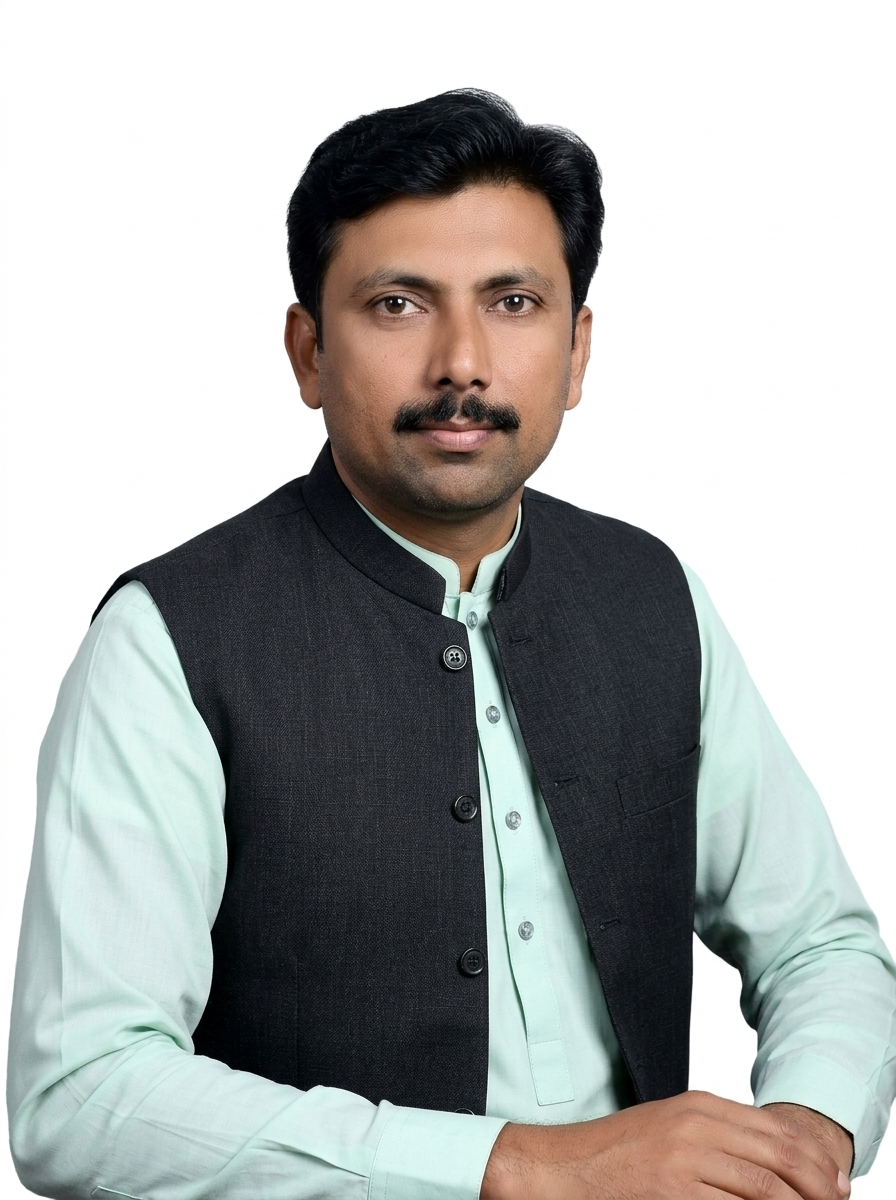
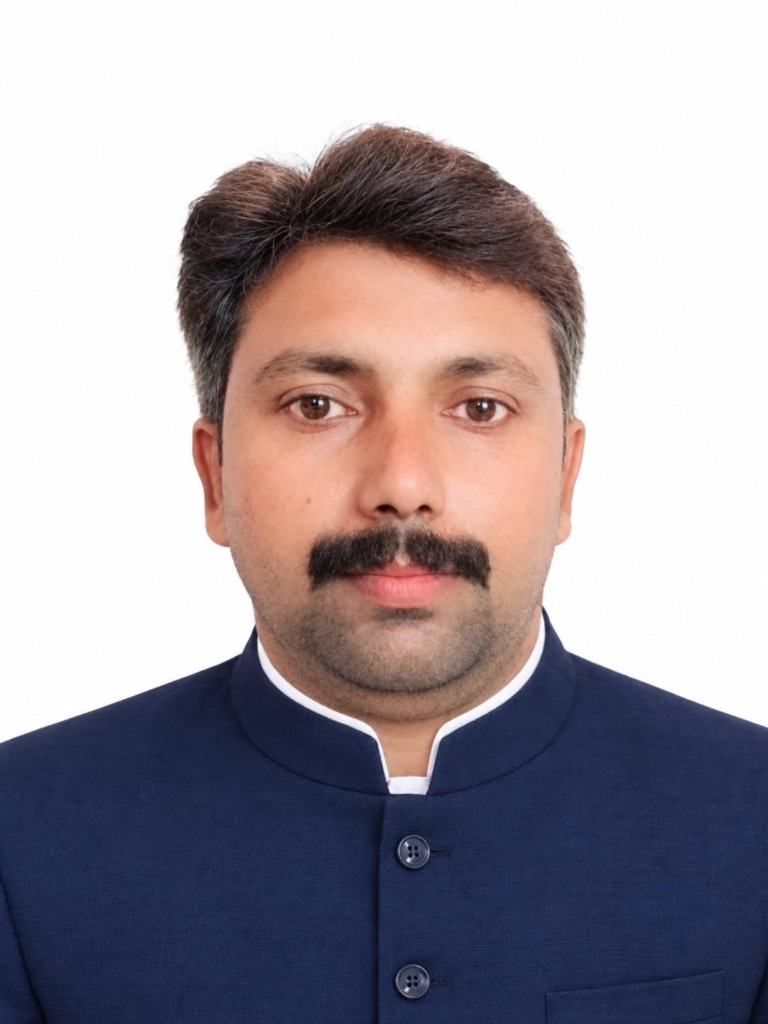
feat: update director portraits for Shafaqat Bhullar, Uzair Atbar Ch., and Wahab Malik

diff --git a/constants/directorsData.js b/constants/directorsData.js
@@ -41,7 +41,7 @@ export const boardOfDirectors = [
   },
   {
     id: 5,
-    name: "Uzair Atbar Ch",
+    name: "Uzair Atbar Ch.",
     title: "Board of Directors",
     qualification: "M. Phil (Physics)",
     image: "/directors/uzair_atbar_ch.jpg",
